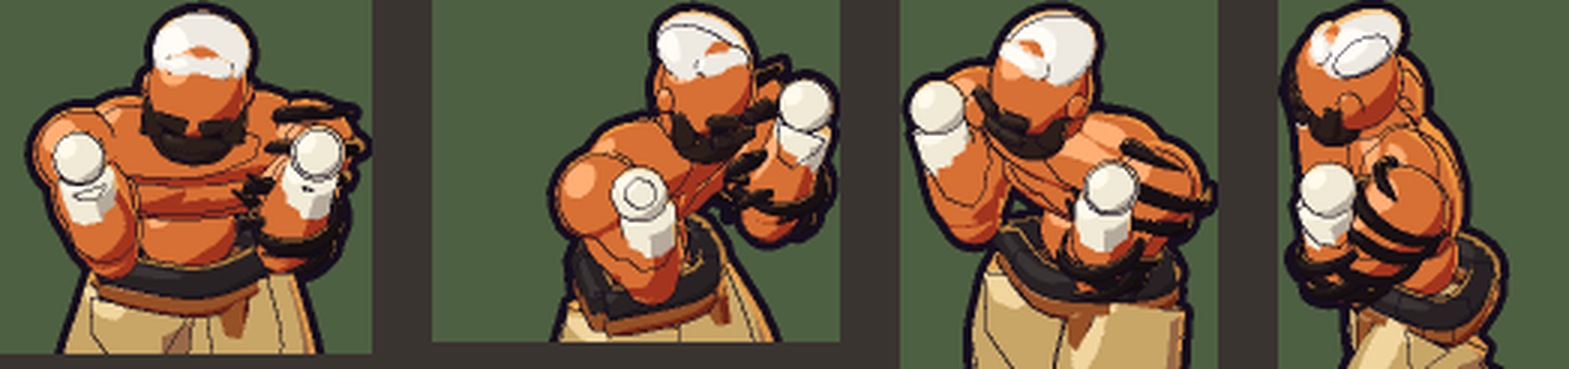
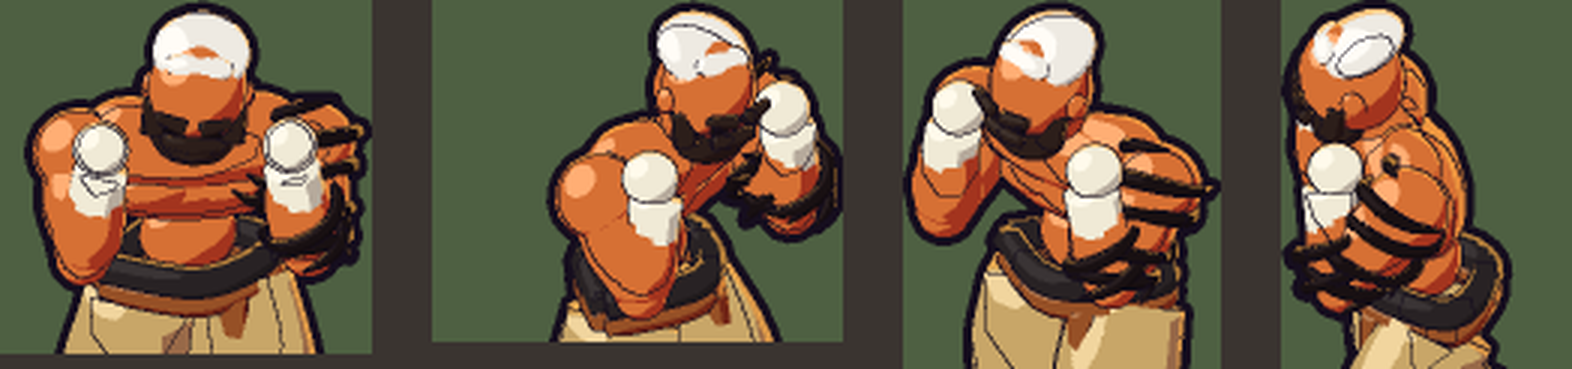
Wade: flare the elbows slightly out in his guard
Human feedback: the elbows pointed in. The guard's shoulders now abduct
slightly (elbows out) with a little more inward turn, so the fists stay
up in front of the face.

Claude-Session: https://claude.ai/code/session_01EfFWxZ2BQtYvHi9oFGUjr6

diff --git a/tools/sprite_forge/actors/wade.py b/tools/sprite_forge/actors/wade.py
@@ -173,8 +173,8 @@ def build():
 # ---------------------------------------------------------------------------
 
 def guard(bounce=0.0, roll=0.0):
-    """A boxer's guard: chin tucked down behind high, tight fists, elbows in
-    to protect the ribs, shoulders hunched and rolled forward, a slight lean
+    """A boxer's guard: chin tucked down behind high, tight fists, elbows
+    flared slightly out, shoulders hunched and rolled forward, a slight lean
     in, bladed feet about shoulder width with the rear heel light.
     `bounce` 0..1 sinks into the knees, `roll` -1..1 rolls the shoulders."""
     return {
@@ -183,9 +183,9 @@ def guard(bounce=0.0, roll=0.0):
         "chest": (10 + 3 * bounce, 0, -8 - 4 * roll),
         "neck": (4, 0, -4),
         "head": (2, 0, -4 + 3 * roll),
-        "shoulder_L": (-54 - 3 * roll, 10, -16), "elbow_L": (-136, 0, 0),
+        "shoulder_L": (-54 - 3 * roll, -16, -20), "elbow_L": (-136, 0, 0),
         "wrist_L": (-14, 0, 0),
-        "shoulder_R": (-44 + 3 * roll, -12, 16), "elbow_R": (-146, 0, 0),
+        "shoulder_R": (-44 + 3 * roll, 16, 20), "elbow_R": (-146, 0, 0),
         "wrist_R": (-14, 0, 0),
         "hip_L": (-20 - 6 * bounce, -6, -6), "knee_L": (18 + 14 * bounce, 0, 0),
         "ankle_L": (-2 - 8 * bounce, 6, 0),

diff --git a/docs/design/ART_DIRECTION.md b/docs/design/ART_DIRECTION.md
@@ -126,7 +126,7 @@ a full dark beard and hard brows, and bold black tiger stripes from his
 left shoulder down to the wrist. White wraps run up his forearms, he wears
 a brown belt over baggy khakis, and his lower legs are bandaged. His guard
 is a boxer's, not a karateka's:
-- chin tucked behind high, tight fists, with elbows in to guard the ribs;
+- chin tucked behind high, tight fists, with the elbows flared slightly out;
 - shoulders hunched and rolled forward, with a slight lean in;
 - bladed feet about shoulder width, rear heel light.
 
